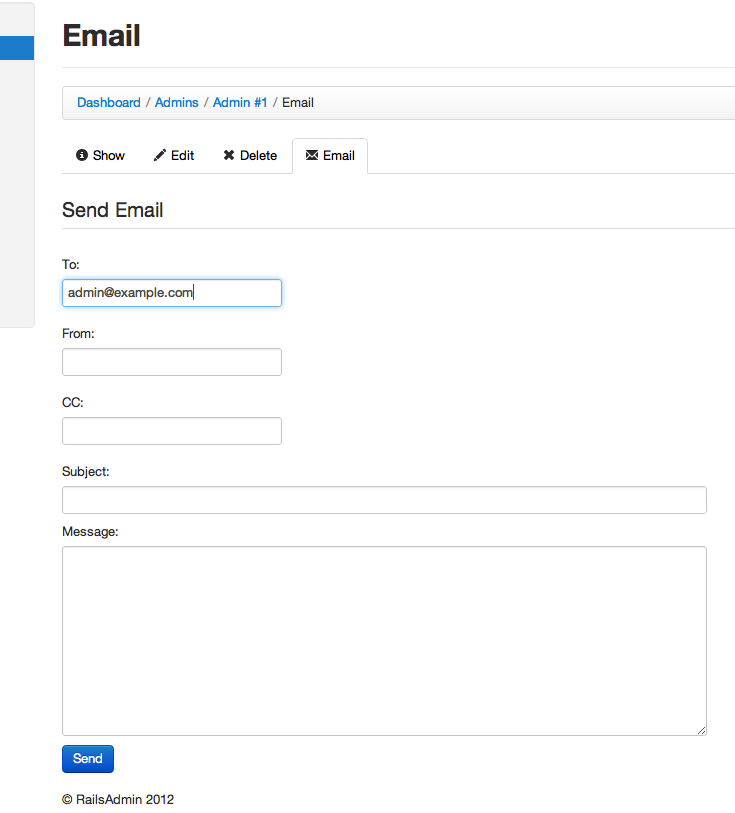
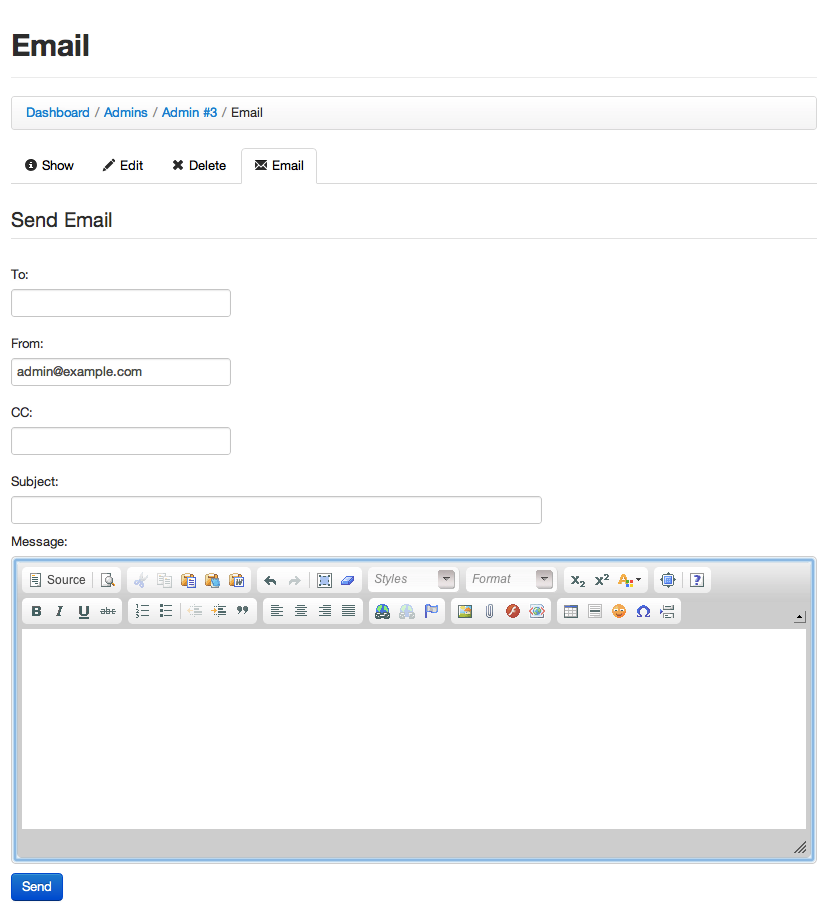
Added some TODOs to the Readme and updated the screenshot

diff --git a/README.md b/README.md
@@ -51,7 +51,16 @@ When a model in Rails Admin uses the email functionality an email form will disp
 
 ## To Do
 
-Testing
+* Testing
+* Add ability to configure To, From, and CC defaults for each model
+* Email templates
+** Allow user to select from a list of templates. 
+** Once selected the template will populate the Subject and Message fields
+** Templates will be derived from another model in the DB
+** Template base model and default fields can be configured for each model that employes rails_admin_email
+* Revise email UI
+* Ability to send email to multiple email addresses
+
 
 ## License
 

diff --git a/CHANGELOG.md b/CHANGELOG.md
@@ -8,4 +8,4 @@
     	config.include_models = ['AwesomeModel', 'SuperCoolUser']
   	end
   	```
- * Textarea defaults to WUSIWUG ckeditor
+ssh* Textarea defaults to WUSIWUG ckeditor
